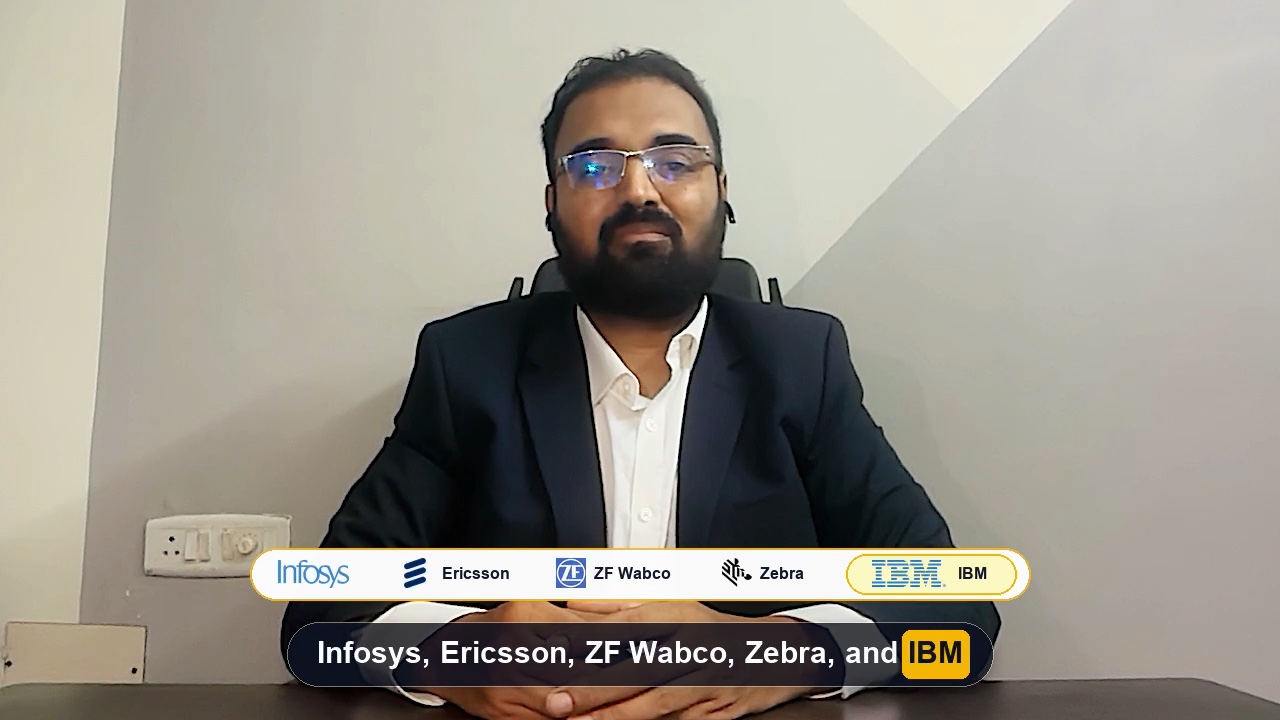
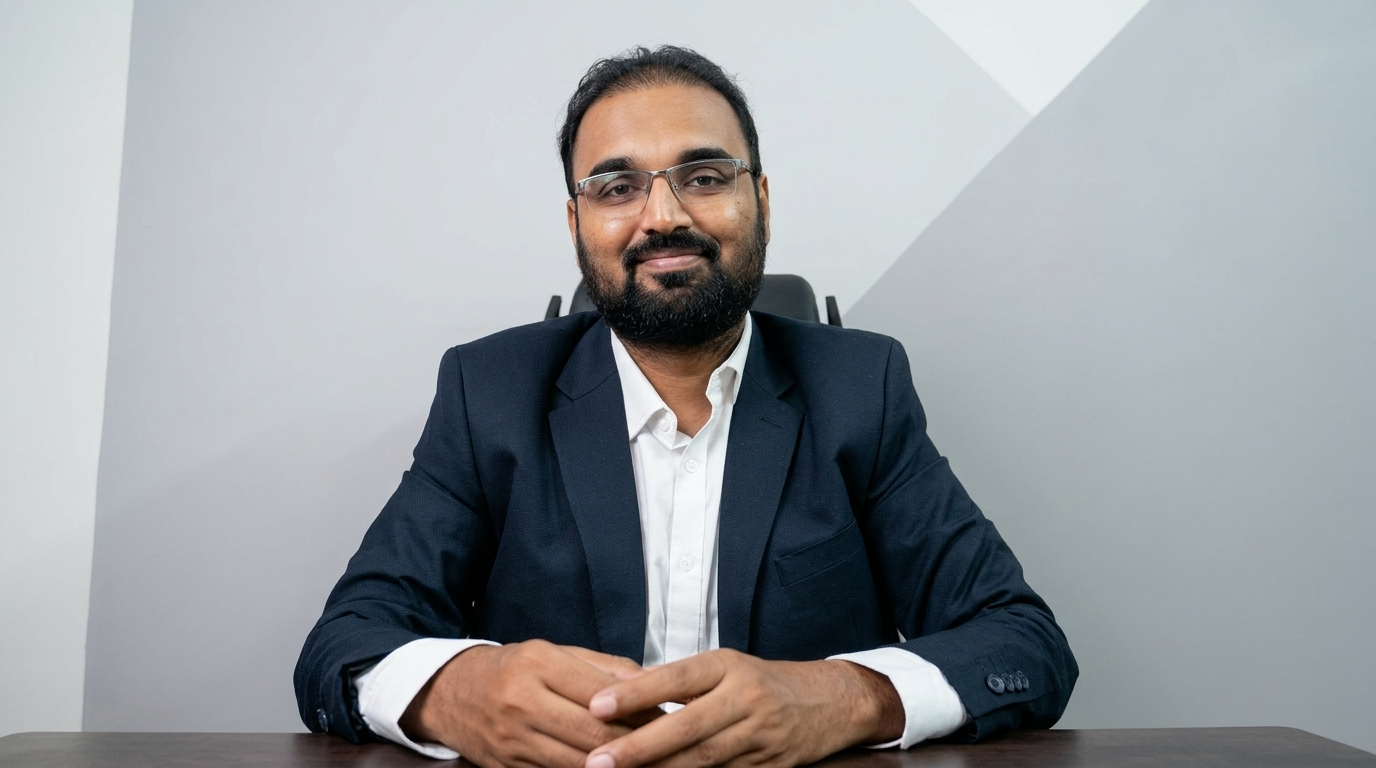
Keep debossed video player open by default with studio video thumbnail

diff --git a/index.html b/index.html
@@ -612,60 +612,68 @@
       flex-shrink: 0;
     }
 
-    /* Right-Side Full-Height Single Portrait & Chest-Level Interactive Video Stage */
+    /* Right-Side Permanently Embedded Debossed (Engraved) Video Stage */
     .masthead-right-stage {
       position: relative;
       z-index: 5;
-      flex: 0 0 510px;
+      flex: 0 0 530px;
       height: var(--masthead-height);
       min-height: var(--masthead-height);
       display: flex;
-      align-items: flex-end;
+      align-items: center;
       justify-content: center;
-      padding-bottom: 34px;
+      padding: 18px 0;
       box-sizing: border-box;
     }
 
-    .masthead.is-playing-video .masthead-right-stage {
-      align-items: center;
-      padding-bottom: 0;
+    /* Debossed / Engraved 16:9 Video Frame (Flat into Website, No Outer Shadow or Border) */
+    .masthead-video-box {
+      display: block;
+      width: 520px;
+      max-width: 100%;
+      aspect-ratio: 16 / 9;
+      border-radius: 14px;
+      overflow: hidden;
+      position: relative;
+      z-index: 4;
+      background: #1E2430;
+      border: none;
+      /* Subtle bottom rim highlight so the cutout looks recessed/debossed into the #F5B703 surface */
+      box-shadow: 0 1.5px 0 rgba(255, 236, 170, 0.65), 0 -1px 0 rgba(13, 27, 46, 0.22);
+      cursor: pointer;
     }
 
-    .masthead-visual {
+    /* Inner engraved recess shadow overlay above the video */
+    .masthead-video-box::after {
+      content: "";
       position: absolute;
       inset: 0;
-      display: flex;
-      align-items: flex-end;
-      justify-content: center;
+      border-radius: 14px;
       pointer-events: none;
-      z-index: 1;
-      transition: opacity 0.45s cubic-bezier(0.16, 1, 0.3, 1),
-                  transform 0.45s cubic-bezier(0.16, 1, 0.3, 1),
-                  filter 0.45s ease;
+      z-index: 5;
+      box-shadow: inset 0 4px 10px rgba(13, 27, 46, 0.38),
+                  inset 0 1.5px 3px rgba(13, 27, 46, 0.45),
+                  inset 0 -1px 2px rgba(255, 255, 255, 0.16);
     }
 
-    .masthead-photo {
+    .masthead-video-box video {
+      width: 100%;
       height: 100%;
-      width: auto;
-      max-width: none;
-      object-fit: contain;
-      object-position: center bottom;
+      object-fit: cover;
+      background: #1E2430;
       display: block;
     }
 
-    .masthead.is-playing-video .masthead-visual {
-      opacity: 0.08;
-      filter: blur(6px);
-      transform: scale(1.03);
-    }
-
     .masthead-play-trigger {
-      position: relative;
-      z-index: 4;
+      position: absolute;
+      bottom: 18px;
+      left: 50%;
+      transform: translateX(-50%);
+      z-index: 6;
       display: inline-flex;
       align-items: center;
       gap: 11px;
-      background: rgba(13, 27, 46, 0.92);
+      background: rgba(13, 27, 46, 0.90);
       backdrop-filter: blur(10px);
       -webkit-backdrop-filter: blur(10px);
       color: #FFFFFF;
@@ -673,19 +681,17 @@
       border-radius: 999px;
       padding: 7px 20px 7px 8px;
       cursor: pointer;
-      box-shadow: 0 12px 28px rgba(13, 27, 46, 0.28);
+      box-shadow: 0 8px 22px rgba(13, 27, 46, 0.32);
       transition: transform 0.22s cubic-bezier(0.16, 1, 0.3, 1),
-                  box-shadow 0.22s ease,
                   background 0.22s ease,
-                  opacity 0.25s ease;
+                  opacity 0.22s ease;
       font-family: var(--font-body);
       text-align: left;
     }
 
-    .masthead-play-trigger:hover {
-      transform: translateY(-2px) scale(1.015);
+    .masthead-video-box:hover .masthead-play-trigger {
+      transform: translateX(-50%) translateY(-2px) scale(1.02);
       background: #0D1B2E;
-      box-shadow: 0 16px 34px rgba(13, 27, 46, 0.36);
     }
 
     .masthead-play-icon {
@@ -702,7 +708,7 @@
       transition: transform 0.2s ease, box-shadow 0.2s ease;
     }
 
-    .masthead-play-trigger:hover .masthead-play-icon {
+    .masthead-video-box:hover .masthead-play-icon {
       transform: scale(1.06);
       box-shadow: 0 0 0 6px rgba(240, 6, 88, 0.32);
     }
@@ -716,46 +722,43 @@
     }
 
     .masthead.is-playing-video .masthead-play-trigger {
+      opacity: 0;
+      pointer-events: none;
+    }
+
+    .masthead-video-close {
       display: none;
+      position: absolute;
+      top: 10px;
+      right: 10px;
+      z-index: 7;
+      background: rgba(11, 15, 25, 0.78);
+      backdrop-filter: blur(6px);
+      color: #FFFFFF;
+      border: 1px solid rgba(255, 255, 255, 0.18);
+      border-radius: 999px;
+      padding: 4px 11px;
+      font-family: var(--font-body);
+      font-size: 11.5px;
+      font-weight: 700;
+      cursor: pointer;
+      transition: background 0.18s ease;
     }
 
-    /* Inline 16:9 Cinema Frame (Hidden Until Play Clicked) */
-    .masthead-video-box {
-      display: none;
-      width: 500px;
-      aspect-ratio: 16 / 9;
-      border-radius: 16px;
-      overflow: hidden;
-      position: relative;
-      z-index: 4;
-      background: #0B0F19;
-      box-shadow: 0 20px 44px rgba(13, 27, 46, 0.36);
-      border: 2px solid rgba(13, 27, 46, 0.22);
-      animation: mastheadVideoReveal 0.35s cubic-bezier(0.16, 1, 0.3, 1);
+    .masthead.is-playing-video .masthead-video-close {
+      display: inline-block;
     }
 
-    .masthead.is-playing-video .masthead-video-box {
-      display: block;
-    }
-
-    @keyframes mastheadVideoReveal {
-      from { opacity: 0; transform: scale(0.95) translateY(8px); }
-      to { opacity: 1; transform: scale(1) translateY(0); }
-    }
-
-    .masthead-video-box video {
-      width: 100%;
-      height: 100%;
-      object-fit: contain;
-      background: #0B0F19;
-      display: block;
+    .masthead-video-close:hover {
+      background: var(--primary-accent, #F00658);
+      border-color: var(--primary-accent, #F00658);
     }
 
     .masthead-audio-fallback {
       display: none;
       position: absolute;
       inset: 0;
-      background: url('video-thumbnail.jpg') center center / cover no-repeat;
+      background: url('video-thumbnail.jpg?v=debossed1') center center / cover no-repeat;
     }
 
     .masthead-audio-fallback.active {
@@ -781,29 +784,6 @@
       font-weight: 600;
     }
 
-    .masthead-video-close {
-      position: absolute;
-      top: 10px;
-      right: 10px;
-      z-index: 6;
-      background: rgba(11, 15, 25, 0.82);
-      backdrop-filter: blur(6px);
-      color: #FFFFFF;
-      border: 1px solid rgba(255, 255, 255, 0.2);
-      border-radius: 999px;
-      padding: 5px 11px;
-      font-family: var(--font-body);
-      font-size: 11.5px;
-      font-weight: 700;
-      cursor: pointer;
-      transition: background 0.18s ease;
-    }
-
-    .masthead-video-close:hover {
-      background: var(--primary-accent, #F00658);
-      border-color: var(--primary-accent, #F00658);
-    }
-
     @media (max-width: 1100px) {
       .masthead {
         position: relative;
@@ -822,22 +802,18 @@
         max-width: 100%;
         padding: 0;
       }
-      .masthead-right-stage {
+      .masthead-right-stage,
+      .masthead.is-playing-video .masthead-right-stage {
         flex: 0 0 auto;
         width: 100%;
-        height: 290px;
-        min-height: 290px;
-        justify-content: center;
-        padding-bottom: 24px;
-      }
-      .masthead.is-playing-video .masthead-right-stage {
         height: auto;
         min-height: 0;
+        justify-content: center;
         padding: 12px 0 24px;
       }
       .masthead-video-box {
         width: 100%;
-        max-width: 480px;
+        max-width: 520px;
       }
     }
 
@@ -938,22 +914,17 @@
         </div>
       </div>
 
-      <!-- Right-Side Full-Height Single Portrait & Chest-Level Play Trigger -->
+      <!-- Right-Side Permanently Embedded Debossed (Engraved) Video Stage -->
       <div class="masthead-right-stage">
-        <div class="masthead-visual" aria-hidden="true">
-          <img src="masthead-single.jpg" alt="Balaajee V.R. - Enterprise Product Design Leader" class="masthead-photo">
-        </div>
-
-        <button type="button" class="masthead-play-trigger" id="mastheadPlayBtn" aria-label="Play 60-second video introduction: 18 years in 60 seconds">
-          <span class="masthead-play-icon" aria-hidden="true">
-            <svg width="14" height="14" viewBox="0 0 24 24" fill="currentColor" style="margin-left:2px;"><polygon points="5 3 19 12 5 21 5 3"/></svg>
-          </span>
-          <span class="masthead-play-text">18 years in 60 seconds</span>
-        </button>
-
         <div class="masthead-video-box" id="mastheadVideoBox">
-          <button type="button" class="masthead-video-close" id="mastheadCloseBtn" aria-label="Close video and return to image">&times; Close</button>
-          <video id="mastheadInlineVideo" controls playsinline preload="none" poster="video-thumbnail.jpg"></video>
+          <button type="button" class="masthead-video-close" id="mastheadCloseBtn" aria-label="Reset video to thumbnail">&times; Reset</button>
+          <video id="mastheadInlineVideo" playsinline preload="metadata" poster="video-thumbnail.jpg?v=debossed1"></video>
+          <button type="button" class="masthead-play-trigger" id="mastheadPlayBtn" aria-label="Play 60-second video introduction: 18 years in 60 seconds">
+            <span class="masthead-play-icon" aria-hidden="true">
+              <svg width="14" height="14" viewBox="0 0 24 24" fill="currentColor" style="margin-left:2px;"><polygon points="5 3 19 12 5 21 5 3"/></svg>
+            </span>
+            <span class="masthead-play-text">18 years in 60 seconds</span>
+          </button>
           <div class="masthead-audio-fallback" id="mastheadAudioFallback">
             <div class="masthead-fallback-bar">
               <span id="mastheadFallbackStatus">▶ Playing 60s Intro Preview</span>
@@ -1874,17 +1845,20 @@
         fallbackAudio.play().catch(() => {});
       }
 
-      function openMastheadVideo() {
+      function openMastheadVideo(e) {
+        if (e) e.stopPropagation();
         if (!masthead) return;
         masthead.classList.add('is-playing-video');
         if (inlineVideo) {
           inlineVideo.style.display = 'block';
+          inlineVideo.controls = true;
           fallbackBox.classList.remove('active');
-          inlineVideo.src = 'intro.mp4?v=hybrid_wbw_v1';
+          if (!inlineVideo.getAttribute('src')) {
+            inlineVideo.src = 'intro.mp4?v=hybrid_wbw_v1';
+          }
           const playPromise = inlineVideo.play();
           if (playPromise !== undefined) {
             playPromise.catch(() => {
-              // If intro.mp4 is not uploaded yet, run clean 60s preview seamlessly
               if (inlineVideo.error || inlineVideo.networkState === 3) {
                 activateFallbackPreview();
               }
@@ -1893,11 +1867,13 @@
         }
       }
 
-      function closeMastheadVideo() {
+      function closeMastheadVideo(e) {
+        if (e) e.stopPropagation();
         if (!masthead) return;
         masthead.classList.remove('is-playing-video');
         if (inlineVideo) {
           inlineVideo.pause();
+          inlineVideo.controls = false;
           inlineVideo.removeAttribute('src');
           inlineVideo.load();
         }
@@ -1910,7 +1886,15 @@
         }
       }
 
+      const videoBoxEl = document.getElementById('mastheadVideoBox');
       if (playTriggerBtn) playTriggerBtn.addEventListener('click', openMastheadVideo);
+      if (videoBoxEl) {
+        videoBoxEl.addEventListener('click', (e) => {
+          if (!masthead.classList.contains('is-playing-video')) {
+            openMastheadVideo(e);
+          }
+        });
+      }
       if (closeVideoBtn) closeVideoBtn.addEventListener('click', closeMastheadVideo);
       if (inlineVideo) {
         inlineVideo.addEventListener('error', activateFallbackPreview);
